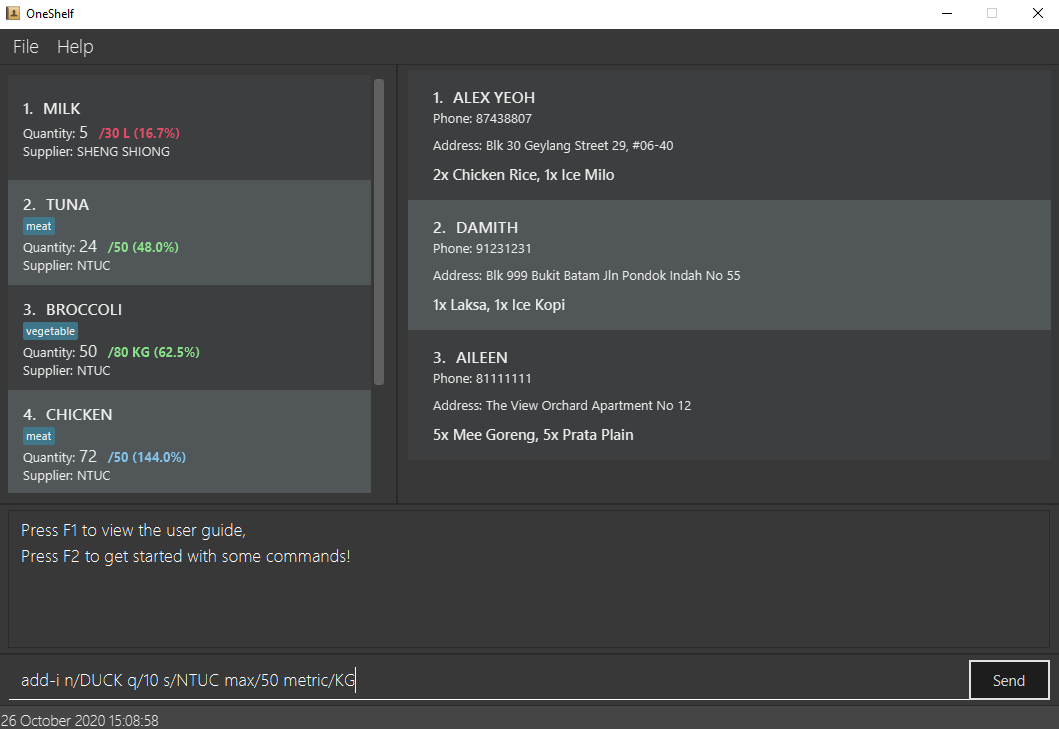
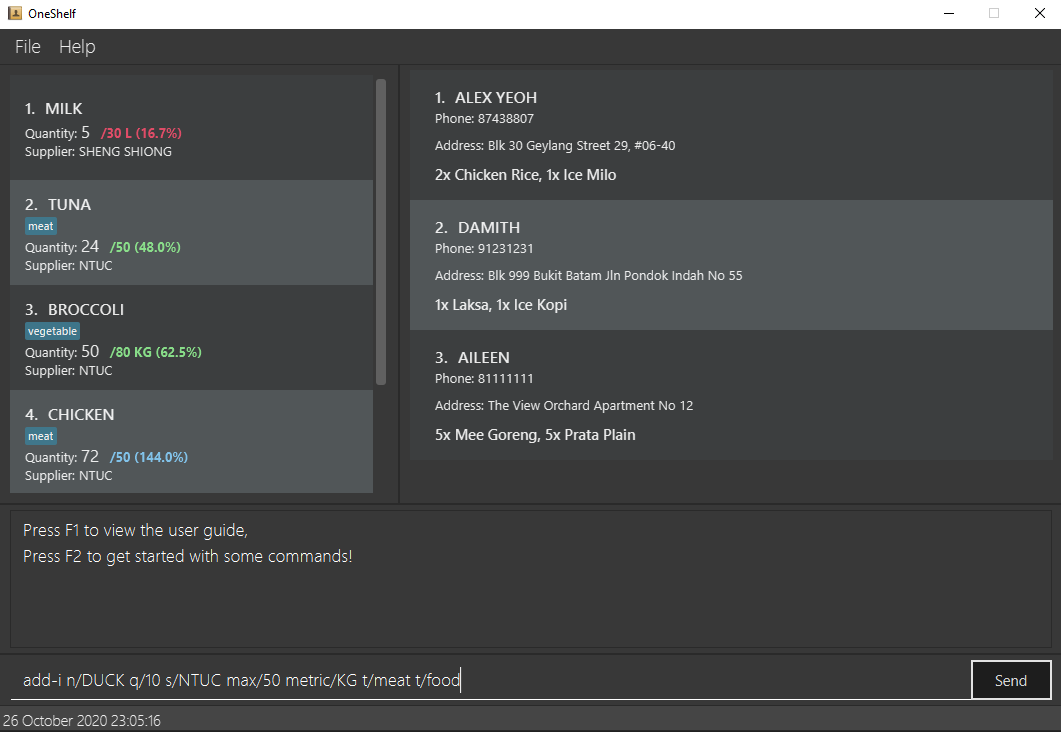
Add tags into example in UG Fix tag printout in result display

diff --git a/src/main/java/seedu/address/model/item/Item.java b/src/main/java/seedu/address/model/item/Item.java
@@ -120,7 +120,7 @@ public class Item {
                 .append(getSupplier())
                 .append("\n")
                 .append("Tags: ");
-        getTags().forEach(builder::append);
+        getTags().forEach(x -> builder.append(x).append(" "));
         if (maxQuantity.isPresent()) {
             builder.append("\n")
                     .append("Max Quantity: ")

diff --git a/docs/UserGuide.md b/docs/UserGuide.md
@@ -28,16 +28,19 @@ as well as summary commands.
 
 4. Double-click the file to start the app. The similar GUI shown below (Figure 1) should appear in a few seconds. <br>
    *Note how the app contains some sample data but the installed version on your desktop might have a different data set.*
-
-    #<br>![Ui](images/UiWithAnnotation.png) <br>
+    <br>
+    #![Ui](images/UiWithAnnotation.png) 
     Figure 1: Introduction to OneShelf User Interface
 
+    <br>
+    
 5. Type the command `help start` in the command box and press Enter to execute it. <br>
    A new help window shown below (Figure 2) should appear on your desktop.
-
-    #<br>![Help Window](images/UiHelpStart.png) <br>
+    <br>
+    #![Help Window](images/UiHelpStart.png) 
     Figure 2: Help Start Window
-
+    
+    <br>
 
 6. Refer to the [Features](#3-features) below for details of each command.
 
@@ -111,9 +114,9 @@ An item is uniquely identified by its `NAME` and `SUPPLIER`.
 * Note 1: `MAX_QUANTITY` denotes the ideal stock level of that particular item.
 * Note 2: `TAG` could be used to categorise items. EG: Duck can be tagged as meat. 
 
-Example 1: `add-i n/DUCK q/10 s/NTUC max/50 metric/KG` using [Figure 1](#bruiimagesuiwithannotationpng-br) as a base.
+Example 1: `add-i n/DUCK q/10 s/NTUC max/50 metric/KG t/meat t/food` using [Figure 1](#uiimagesuiwithannotationpng) as the starting point.
 
-1. Select the Command Box and type in `add-i n/DUCK q/10 s/NTUC max/50 metric/KG`.
+1. Select the Command Box and type in `add-i n/DUCK q/10 s/NTUC max/50 metric/KG t/meat t/food`.
 <br>
 ![add-i example one step one](images/add-i%20example%20one%20step%20one.PNG)
 <br>
@@ -127,7 +130,7 @@ Example 1: `add-i n/DUCK q/10 s/NTUC max/50 metric/KG` using [Figure 1](#bruiima
 <br>
 <br>
 
-Example 2: `add-i n/Tuna q/20 s/NTUC` using [Figure 1](#bruiimagesuiwithannotationpng-br) as the starting point.
+Example 2: `add-i n/Tuna q/20 s/NTUC` using [Figure 1](#uiimagesuiwithannotationpng) as the starting point.
 
 1. Select the Command box and type in `add-i n/Tuna q/20 s/NTUC`
 <br>
@@ -323,7 +326,9 @@ OneShelf data are saved in the hard disk automatically after any command that ch
 
 #### 3.2.2 Scrolling through command history
 
-OneShelf commands are traversable (up to 20 commands) much like Window's command prompt with the arrow up key traversing into previous commands and arrow down key traversing into next commands.
+OneShelf commands are traversable (up to 20 commands) much like Window's command prompt. 
+By pressing the arrow up key traversing you're able to traverse previous commands and 
+by pressing the arrow down key you're able to traverse into next commands.
 
 
 
